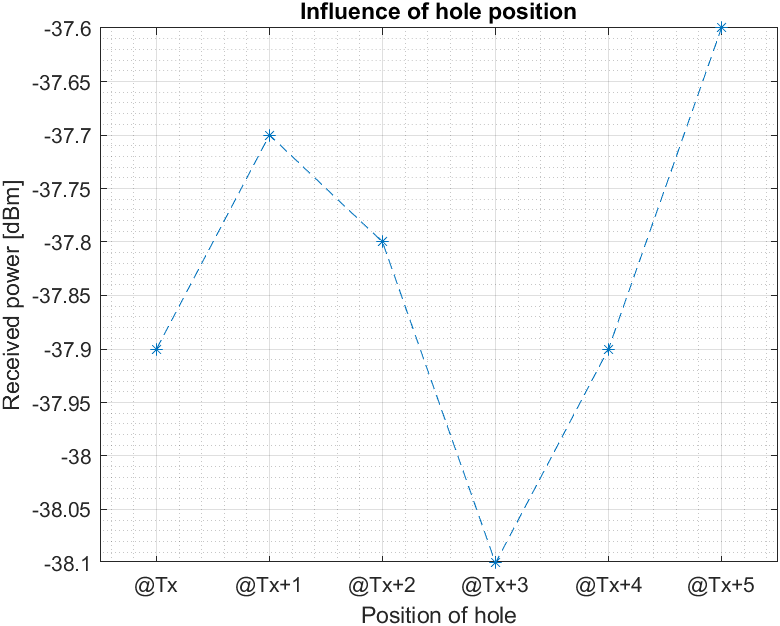
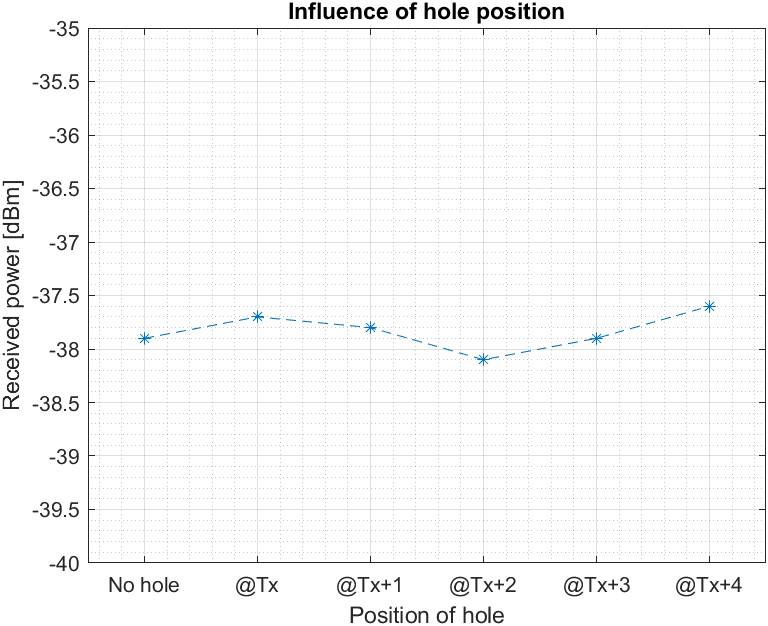
modified the calculation of the gain. Added the calculation of the criterion for the Two-Ray model

diff --git a/Propagation_Models.m b/Propagation_Models.m
@@ -6,8 +6,8 @@ addpath('Data','Functions','Images')
 load('./Data/Center_Frequency.mat')
 
 D = 16.9*10^-2; % [m]
-lambda_B = 3*10^8/freq_center; % [m]
-[R_Fresnel_B, R_Fraunhofer_B] = calculateRegions(D,lambda_B); % [m]
+lambda = 3*10^8/freq_center; % [m]
+[R_Fresnel, R_Fraunhofer] = calculateRegions(D,lambda); % [m]
 
 d = [3.81	 3.23    2.63    2.03    1.43    0.83]; % [m]
 P = [-35.9  -36.8   -35.6   -31.8   -29.1   -24.1]; % [dBm]
@@ -22,7 +22,7 @@ fit = fun(coeff,d1);
 figure(); hold on
 plot(d, P, '*')
 plot(d1, fit, 'b')
-xline([R_Fresnel_B R_Fraunhofer_B],'r')
+xline([R_Fresnel R_Fraunhofer],'r')
 xlabel('Distance from Tx [m]'); ylabel('Received power [dBm]')
 grid on, grid minor
 axis([0 4 -40 -10])
@@ -75,7 +75,7 @@ P = [-37.9  -37.7   -37.8   -38.1   -37.9   -37.6];
 figure();
 plot(P,'*--')
 grid on, grid minor
-xticks(1:length(P)); xticklabels({'@Tx','@Tx+1','@Tx+2','@Tx+3','@Tx+4','@Tx+5'})
+xticks(1:length(P)); xticklabels({'No hole','@Tx','@Tx+1','@Tx+2','@Tx+3','@Tx+4'})
 xlim([0.5 length(P)+0.5]); ylim([-40 -35])
 xlabel('Position of hole')
 ylabel('Received power [dBm]')
@@ -105,6 +105,16 @@ exportgraphics(gcf,'./Images/TwoRay_NumberHoles.png')
 
 rel_diff = abs( max(P) - min(P) ) / abs( max(P) );
 fprintf('The relative difference between the highest and lowest received power is %0.2f%%. \n', rel_diff*100)
+
+    %% Criterion
+    
+load('./Data/Center_Frequency.mat')
+
+lambda = 3*10^8/freq_center; % [m]
+height = 1.5; % [m]
+
+criterium = (20*height*height)/lambda;
+fprintf('The Two-Ray model is only valid from %0.2f m onwards. \n', criterium)
 
 %% Small-scale fading
     %% Extract the data
@@ -137,6 +147,7 @@ figure(); hold on
 fplot(pdf, [0 2*dist.s])
 area(linspace(ci(1),ci(2)), pdf(linspace(ci(1),ci(2))), 'LineStyle','none')
 ylim( [0 0.075] )
+xticks(0:10:120)
 xlabel('Attenuation [dB]'); title({'PDF of the Rician Distribution',sprintf('(K = %0.3f)',K)})
 
 exportgraphics(gcf,'./Images/SmallScale_Rician_Distribution.png')

diff --git a/Radiation_Pattern.m b/Radiation_Pattern.m
@@ -63,8 +63,9 @@ exportgraphics(gcf,'./Images/Radiation_Pattern_Elevation.png')
 
 %% Gain
 
-lambda_A = 0.2584; % [m]
-lambda_B = 0.2617; % [m]
+load('./Data/Center_Frequency.mat')
+
+lambda = 3*10^8/freq_center; % [m]
 
 Att_cable = 15 - 13.38; % [dB]
 P_Rx_A = -32.2; % [dBm]
@@ -72,8 +73,8 @@ P_Rx_B = -30.3; % [dBm]
 E = 370*10^-3; % [V/m]
 
 syms G
-eqn_A = E == sqrt( 10^(P_Rx_A/10) * 10^-3 * (480*pi)/lambda_A^2 * 1/(10^(G/10)) * 1/(10^(Att_cable/10)) );
-eqn_B = E == sqrt( 10^(P_Rx_B/10) * 10^-3 * (480*pi)/lambda_B^2 * 1/(10^(G/10)) * 1/(10^(Att_cable/10)) );
+eqn_A = E == sqrt( 10^(P_Rx_A/10) * 10^-3 * (480*pi)/lambda^2 * 1/(10^(G/10)) * 1/(10^(Att_cable/10)) );
+eqn_B = E == sqrt( 10^(P_Rx_B/10) * 10^-3 * (480*pi)/lambda^2 * 1/(10^(G/10)) * 1/(10^(Att_cable/10)) );
 
 eq_A = 20*log10(E*10^3) == 47.8 + 10*log10(G) + 10*log10( 10^(P_Rx_A/10)*10^-6 ) - 20*log10(3*10^-3);
 
